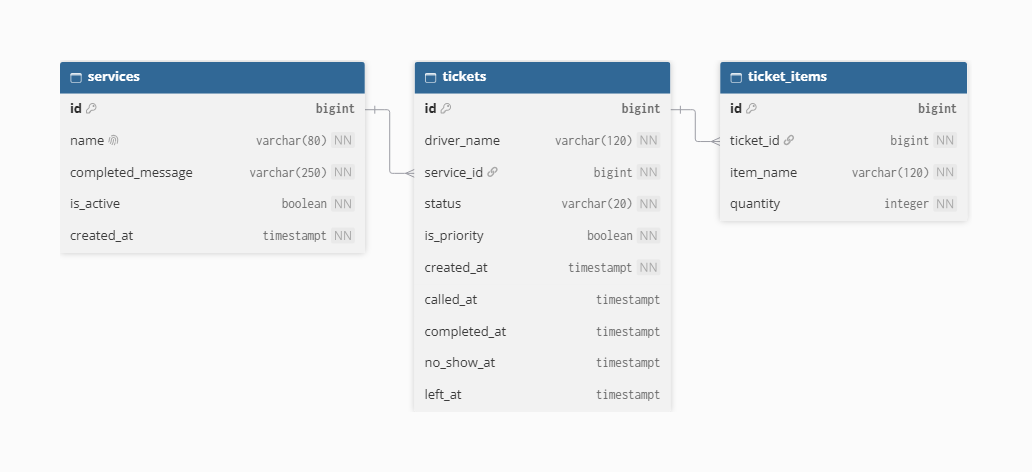
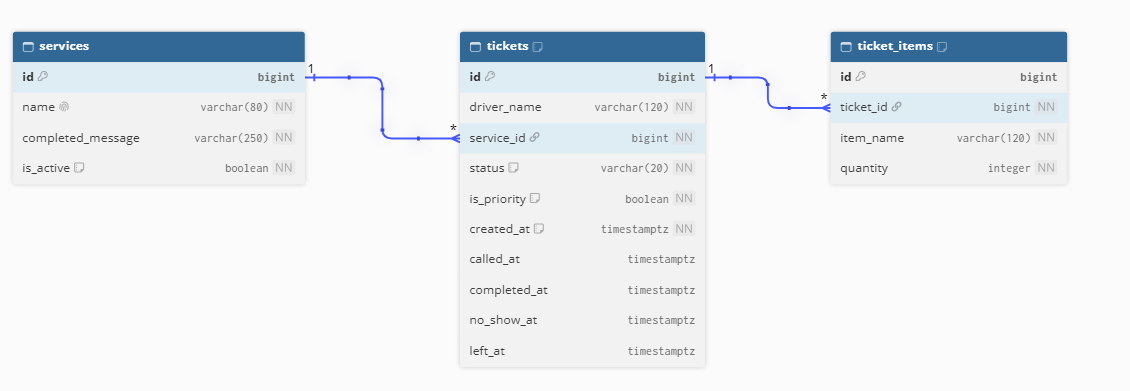
Self-review of schema

diff --git a/docs/week4/schema.md b/docs/week4/schema.md
@@ -4,21 +4,21 @@ This is the proposed schema for WarehouseQ's warehouse receiving workflow. It mo
 
 ## Find the nouns in the requirements
 
-Each requirement marked **Stores data? = Yes** in [the requirements list](../requirements.md) is included below. The queue and the number of people ahead are derived from tickets; they are not stored as separate records or columns.
+Each requirement marked **Stores data? = Yes** in [the requirements list](../requirements.md) is included below. The queue and the number of people ahead are derived from tickets, they are not stored as separate records or columns.
 
 | Req ID | Requirement | Nouns | Table or column? |
 | --- | --- | --- | --- |
-| REQ-C01 | A driver can join the To Check or To Ship queue by entering their name and the items and quantities for the request. | **driver**, **queue**, **service**, **name**, **items**, **quantities**, **request** | **driver** name → `tickets.driver_name`; **queue** → computed from `tickets`; **service** → `services`, referenced by `tickets.service_id`; **request** → `tickets`; **items** → `ticket_items.item_name`; **quantities** → `ticket_items.quantity` |
-| REQ-C02 | A driver can view their ticket number, selected service, current status, and how many people are ahead in that service. | **ticket number**, **service**, **status**, **people ahead** | **ticket number** → `tickets.id`; **service** → `tickets.service_id` and `services.name`; **status** → `tickets.status`; **people ahead** → computed from earlier waiting tickets for the same service |
-| REQ-C03 | A driver can tell when staff have called their ticket by seeing its status change to Processing on the ticket page. | **driver**, **staff**, **ticket**, **status** | **ticket** → `tickets`; **status** → `tickets.status` and `tickets.called_at`; **driver** and **staff** are actors, not persisted account records in this app |
-| REQ-S01 | A warehouse staff member can view waiting tickets in ticket-number order on the staff dashboard. | **staff member**, **tickets**, **ticket-number order** | **tickets** → `tickets`; **ticket-number order** → generated `tickets.id`; **staff member** is an actor, not a stored user |
-| REQ-S02 | A warehouse staff member can identify whether each ticket is for To Check or To Ship from its service label. | **staff member**, **ticket**, **service**, **service label** | **ticket** → `tickets`; **service** and **service label** → `services`, referenced by `tickets.service_id` |
-| REQ-S03 | A warehouse staff member can call the next waiting ticket and update its status to Completed or No-Show from the dashboard. | **staff member**, **ticket**, **status**, **call**, **service** | **ticket** and **status** → `tickets`; **call**, completion, and no-show times → `tickets.called_at`, `tickets.completed_at`, `tickets.no_show_at`; **service** → `tickets.service_id`; **staff member** is an actor, not a stored user |
-| REQ-S04 | WarehouseQ can save services, tickets, item names, quantities, and statuses so the queue is still available after the server restarts. | **services**, **tickets**, **item names**, **quantities**, **statuses**, **queue** | **services** → `services`; **tickets** and **statuses** → `tickets`; **item names** and **quantities** → `ticket_items`; **queue** → computed from stored tickets |
-| REQ-C04 | A driver can review the item names and quantities on their ticket after joining the queue. | **driver**, **item names**, **quantities**, **ticket** | **ticket** → `tickets`; **item names** and **quantities** → `ticket_items`; **driver** is an actor identified on that ticket by `tickets.driver_name` |
-| REQ-C05 | A driver can mark a request as time-sensitive so staff can identify it on the dashboard and prioritize it within its service. | **driver**, **request**, **priority**, **staff**, **service** | **request** → `tickets`; **priority** → `tickets.is_priority`; **service** → `tickets.service_id`; **driver** and **staff** are actors |
-| REQ-S05 | A warehouse staff member can add a service, rename it, or switch it off so drivers cannot select it for new tickets. | **staff member**, **service**, **name**, **active state**, **drivers** | **service**, **name**, and **active state** → `services.id`, `services.name`, and `services.is_active`; **staff member** and **drivers** are actors |
-| REQ-S06 | A warehouse staff member can see the number of No-Show tickets for each service on a selected day. | **staff member**, **No-Show tickets**, **service**, **day**, **number** | **tickets** → `tickets`; **service** → `tickets.service_id`; **day** → `tickets.no_show_at` (`timestampt`); **number** → computed count, not stored; **staff member** is an actor |
+| REQ-C01 | A driver can join the To Check or To Ship queue by entering their name and the items and quantities for the request. | **driver**, **queue**, **service**, **name**, **items**, **quantities**, **request** | **driver** name → `tickets.driver_name`<br> **queue** → computed from `tickets`<br> **service** → `services`, referenced by `tickets.service_id`<br> **request** → `tickets`<br> **items** → `ticket_items.item_name`<br> **quantities** → `ticket_items.quantity` |
+| REQ-C02 | A driver can view their ticket number, selected service, current status, and how many people are ahead in that service. | **ticket number**, **service**, **status**, **people ahead** | **ticket number** → `tickets.id`<br> **service** → `tickets.service_id` and `services.name`<br> **status** → `tickets.status`<br> **people ahead** → computed from earlier waiting tickets for the same service |
+| REQ-C03 | A driver can tell when staff have called their ticket by seeing its status change to Processing on the ticket page. | **driver**, **staff**, **ticket**, **status** | **ticket** → `tickets`<br> **status** → `tickets.status` and `tickets.called_at`<br> **driver** and **staff** are actors, not persisted account records in this app |
+| REQ-S01 | A warehouse staff member can view waiting tickets in ticket-number order on the staff dashboard. | **staff member**, **tickets**, **ticket-number order** | **tickets** → `tickets`<br> **ticket-number order** → generated `tickets.id`<br> **staff member** is an actor, not a stored user |
+| REQ-S02 | A warehouse staff member can identify whether each ticket is for To Check or To Ship from its service label. | **staff member**, **ticket**, **service**, **service label** | **ticket** → `tickets`<br> **service** and **service label** → `services`, referenced by `tickets.service_id` |
+| REQ-S03 | A warehouse staff member can call the next waiting ticket and update its status to Completed or No-Show from the dashboard. | **staff member**, **ticket**, **status**, **call**, **service** | **ticket** and **status** → `tickets`<br> **call**, completion, and no-show times → `tickets.called_at`, `tickets.completed_at`, `tickets.no_show_at`<br> **service** → `tickets.service_id`<br> **staff member** is an actor, not a stored user |
+| REQ-S04 | WarehouseQ can save services, tickets, item names, quantities, and statuses so the queue is still available after the server restarts. | **services**, **tickets**, **item names**, **quantities**, **statuses**, **queue** | **services** → `services`<br> **tickets** and **statuses** → `tickets`<br> **item names** and **quantities** → `ticket_items`<br> **queue** → computed from stored tickets |
+| REQ-C04 | A driver can review the item names and quantities on their ticket after joining the queue. | **driver**, **item names**, **quantities**, **ticket** | **ticket** → `tickets`<br> **item names** and **quantities** → `ticket_items`<br> **driver** is an actor identified on that ticket by `tickets.driver_name` |
+| REQ-C05 | A driver can mark a request as time-sensitive so staff can identify it on the dashboard and prioritize it within its service. | **driver**, **request**, **priority**, **staff**, **service** | **request** → `tickets`<br> **priority** → `tickets.is_priority`<br> **service** → `tickets.service_id`<br> **driver** and **staff** are actors |
+| REQ-S05 | A warehouse staff member can add a service, rename it, or switch it off so drivers cannot select it for new tickets. | **staff member**, **service**, **name**, **active state**, **drivers** | **service**, **name**, and **active state** → `services.id`, `services.name`, and `services.is_active`<br> **staff member** and **drivers** are actors |
+| REQ-S06 | A warehouse staff member can see the number of No-Show tickets for each service on a selected day. | **staff member**, **No-Show tickets**, **service**, **day**, **number** | **tickets** → `tickets`<br> **service** → `tickets.service_id`<br> **day** → `tickets.no_show_at` (`timestamptz`)<br> **number** → computed count, not stored<br> **staff member** is an actor |
 
 ## Tables and columns
 
@@ -26,47 +26,68 @@ Three related tables are needed. A ticket is one warehouse request, and each ite
 
 | Table | Columns |
 | --- | --- |
-| `services` | `id`, `name`, `completed_message`, `is_active`, `created_at` |
+| `services` | `id`, `name`, `completed_message`, `is_active` |
 | `tickets` | `id`, `driver_name`, `service_id`, `status`, `is_priority`, `created_at`, `called_at`, `completed_at`, `no_show_at`, `left_at` |
 | `ticket_items` | `id`, `ticket_id`, `item_name`, `quantity` |
 
-The driver's name is stored on the ticket because it is the name supplied for that request; WarehouseQ does not currently have driver accounts or email addresses. Service details are kept separately so a service can be renamed or disabled without copying its name to every ticket. Ticket item names and quantities are kept in `ticket_items`, one row per item line.
+The driver's name is stored on the ticket because it is the name supplied for that request, WarehouseQ does not currently have driver accounts or email addresses. Service details are kept separately so a service can be renamed or disabled without copying its name to every ticket. Ticket item names and quantities are kept in `ticket_items`, one row per item line.
 
 The ticket status uses `Waiting`, `Processing`, `Completed`, `No-Show`, or `Left`. `Left` distinguishes a driver who leaves the queue from a driver who fails to appear, allowing no-show reports to count only actual no-shows. `is_priority` supports the future priority feature. `is_active` supports disabling a service while retaining it for historical tickets.
 
-Queue position and counts are computed, not stored. The position is the count of earlier `Waiting` tickets for the same service, ordered by `created_at` and then `id` to break ties. The no-show count is computed from `tickets.no_show_at` for the selected service and day.
+Queue position and counts are computed, not stored. To match REQ-S01 and the current app, waiting tickets are ordered by ticket number (`tickets.id`), a driver's position is the count of earlier `Waiting` tickets for the same service with a lower ticket number. `created_at` records when the ticket joined and supports date-based reporting, but does not determine ticket order. The no-show count is computed from `tickets.no_show_at` for the selected service and day.
 
 ## PostgreSQL types and constraints
 
-`GENERATED ALWAYS AS IDENTITY` columns are generated by PostgreSQL. All timestamp columns use `timestampt`; nullable transition times are filled when that transition occurs.
+`GENERATED ALWAYS AS IDENTITY` columns are generated by PostgreSQL. All timestamp columns use `timestamptz`, nullable transition times are filled when that transition occurs. `services.created_at` was omitted because no current or planned requirement needs the service creation time.
 
 | Table | Column | PostgreSQL type | Constraint | Why |
 | --- | --- | --- | --- | --- |
 | `services` | `id` | `bigint GENERATED ALWAYS AS IDENTITY` | PRIMARY KEY | Stable generated identifier for each service. |
-| `services` | `name` | `varchar(80)` | NOT NULL, UNIQUE | Required service label; prevents duplicate labels such as two `To Check` services. |
+| `services` | `name` | `varchar(80)` | NOT NULL, UNIQUE | Required service label, prevents duplicate labels such as two `To Check` services. |
 | `services` | `completed_message` | `varchar(250)` | NOT NULL | Stores the service-specific completion message shown to the driver. |
 | `services` | `is_active` | `boolean` | NOT NULL DEFAULT `true` | Inactive services stay available for old tickets but cannot be chosen for new ones. |
-| `services` | `created_at` | `timestampt` | NOT NULL DEFAULT `now()` | Records when the service was created, using a time-zone-aware timestamp. |
 | `tickets` | `id` | `bigint GENERATED ALWAYS AS IDENTITY` | PRIMARY KEY | Unique ticket number generated by the database. |
 | `tickets` | `driver_name` | `varchar(120)` | NOT NULL | Stores the name entered for this warehouse request. |
-| `tickets` | `service_id` | `bigint` | NOT NULL, FOREIGN KEY REFERENCES `services(id)` ON DELETE RESTRICT | Every ticket must belong to an existing service; deleting a service cannot erase ticket history. |
-| `tickets` | `status` | `varchar(20)` | NOT NULL DEFAULT `'Waiting'`, CHECK (`status` IN (`'Waiting'`, `'Processing'`, `'Completed'`, `'No-Show'`, `'Left'`)) | Restricts ticket state to the states used by the queue workflow. |
-| `tickets` | `is_priority` | `boolean` | NOT NULL DEFAULT `false` | Stores whether this individual request has priority; it can vary per ticket. |
-| `tickets` | `created_at` | `timestampt` | NOT NULL DEFAULT `now()` | Records when the ticket joined; used to order the queue and compute position. |
-| `tickets` | `called_at` | `timestampt` | NULL allowed | Records when the ticket was called; NULL until called. |
-| `tickets` | `completed_at` | `timestampt` | NULL allowed | Records when staff completed the work; NULL unless completed. |
-| `tickets` | `no_show_at` | `timestampt` | NULL allowed | Records when staff marked a no-show; supports per-service, per-day reports. |
-| `tickets` | `left_at` | `timestampt` | NULL allowed | Records when a driver left before being called, separately from a no-show. |
+| `tickets` | `service_id` | `bigint` | NOT NULL, FOREIGN KEY REFERENCES `services(id)` ON DELETE RESTRICT | Every ticket must belong to an existing service, deleting a service cannot erase ticket history. |
+| `tickets` | `status` | `varchar(20)` | NOT NULL DEFAULT `'Waiting'`, CHECK (`status` IN (`'Waiting'`, `'Processing'`, `'Completed'`, `'No-Show'`, `'Left'`)), plus the table-level status/timestamp CHECK below | Restricts ticket state to valid queue states and requires transition timestamps to agree with the state. |
+| `tickets` | `is_priority` | `boolean` | NOT NULL DEFAULT `false` | Stores whether this individual request has priority, it can vary per ticket. |
+| `tickets` | `created_at` | `timestamptz` | NOT NULL DEFAULT `now()` | Records when the ticket joined and supports date-based reporting. |
+| `tickets` | `called_at` | `timestamptz` | NULL allowed | Records when the ticket was called, NULL until called. |
+| `tickets` | `completed_at` | `timestamptz` | NULL allowed | Records when staff completed the work, NULL unless completed. |
+| `tickets` | `no_show_at` | `timestamptz` | NULL allowed | Records when staff marked a no-show, supports per-service, per-day reports. |
+| `tickets` | `left_at` | `timestamptz` | NULL allowed | Records when a driver left before being called, separately from a no-show. |
 | `ticket_items` | `id` | `bigint GENERATED ALWAYS AS IDENTITY` | PRIMARY KEY | Gives each item line its own stable identifier. |
 | `ticket_items` | `ticket_id` | `bigint` | NOT NULL, FOREIGN KEY REFERENCES `tickets(id)` ON DELETE CASCADE | Associates the item line with its ticket; ticket items have no meaning without their ticket. |
 | `ticket_items` | `item_name` | `varchar(120)` | NOT NULL | Stores one item description per row. |
 | `ticket_items` | `quantity` | `integer` | NOT NULL, CHECK (`quantity` > 0) | Stores a numeric, positive item quantity. |
 
-This schema uses PRIMARY KEY, FOREIGN KEY, NOT NULL, UNIQUE, CHECK, and `timestampt`. Ticket positions, counts, and service queues are query results rather than stored values.
+This schema uses PRIMARY KEY, FOREIGN KEY, NOT NULL, UNIQUE, CHECK, and `timestamptz`. Ticket positions, counts, and service queues are query results rather than stored values.
 
-## 2d. Entity relationship diagram
+The `tickets` table has a second CHECK constraint to prevent status and transition timestamps from contradicting each other:
 
-![WarehouseQ entity relationship diagram](erd.png)
+```sql
+CONSTRAINT tickets_status_timestamps_check CHECK (
+    (status = 'Waiting'
+        AND called_at IS NULL AND completed_at IS NULL
+        AND no_show_at IS NULL AND left_at IS NULL)
+ OR (status = 'Processing'
+        AND called_at IS NOT NULL AND completed_at IS NULL
+        AND no_show_at IS NULL AND left_at IS NULL)
+ OR (status = 'Completed'
+        AND called_at IS NOT NULL AND completed_at IS NOT NULL
+        AND no_show_at IS NULL AND left_at IS NULL)
+ OR (status = 'No-Show'
+        AND called_at IS NULL AND completed_at IS NULL
+        AND no_show_at IS NOT NULL AND left_at IS NULL)
+ OR (status = 'Left'
+        AND called_at IS NULL AND completed_at IS NULL
+        AND no_show_at IS NULL AND left_at IS NOT NULL)
+)
+```
+
+## Entity relationship diagram
+
+![](erd.png)
 
 **Relationships:** One service has many tickets. Each ticket belongs to exactly one service. One ticket has many item lines. Each item line belongs to exactly one ticket.
 
@@ -77,8 +98,8 @@ This schema uses PRIMARY KEY, FOREIGN KEY, NOT NULL, UNIQUE, CHECK, and `timesta
 
 There are no many-to-many relationships in this version of WarehouseQ.
 
-## 2e. Normalization check
+## Normalization check
 
 1. **One value per cell (1NF):** Yes. Each ticket item and quantity is one `ticket_items` row. A ticket does not contain a comma-separated list of item names or quantities.
-2. **Depends on the whole key (2NF):** There is no join table with a composite key. Every non-key column in each table describes its row's primary key; the fields in `ticket_items` describe that item line.
-3. **No hidden copies (3NF):** Service name and completion message are stored once in `services`, rather than repeated on every ticket. Each item line belongs to one ticket. A driver's name is recorded on each ticket as the name provided for that request; there is no separate driver account or profile fact duplicated across records.
+2. **Depends on the whole key (2NF):** There is no join table with a composite key. Every non-key column in each table describes its row's primary key, the fields in `ticket_items` describe that item line.
+3. **No hidden copies (3NF):** Service name and completion message are stored once in `services`, rather than repeated on every ticket. Each item line belongs to one ticket. A driver's name is recorded on each ticket as the name provided for that request, there is no separate driver account or profile fact duplicated across records.

diff --git a/docs/week4/schema-review.md b/docs/week4/schema-review.md
@@ -1,0 +1,35 @@
+# WarehouseQ schema self-review
+
+The schema was set aside for at least an hour before this review. I checked it against the requirements and Week 3 persona tasks, then updated the schema and ERD to address the issues below.
+
+## Review findings
+
+### Queue order and requirement coverage
+
+**Works well:** `tickets` records the service and status needed to build each service's queue, and the number of people ahead is computed rather than stored.
+<br>**Problem:** The schema described queue order by `created_at`, while REQ-S01 and the staff dashboard specify ticket-number order. This mismatch was found by question 1 (coverage).
+<br>**Change:** Queue order and position are now defined by `tickets.id` (the ticket number). `created_at` remains for recording join time and date-based reporting.
+
+### Status and transition timestamps
+
+**Works well:** Separate transition timestamps preserve when a ticket was called, completed, marked No-Show, or left the queue, supporting status display and no-show reporting.
+<br>**Problem:** Storing both `status` and transition timestamps without a consistency rule could allow contradictory data, such as a `Waiting` ticket with a completion time. This was found by question 2 (one fact in one place) and question 4 (bad data).
+<br>**Change:** Added a table-level `CHECK` constraint in `schema.md` requiring transition timestamps to agree with the ticket status. Status and timestamp must be updated together.
+
+### Column and type review
+
+**Works well:** Service names and completion messages are stored once in `services`, while each ticket item is stored as its own row. This avoids repeated service facts and list-valued item columns.
+<br>**Problem:** `services.created_at` was not needed by any current or planned requirement, and the timestamp type had been misspelled as `timestampt` in the schema since `timestamptz` includes the time and timezone. These were found by questions 1 (coverage) and 6 (types).
+<br>**Change:** Removed `services.created_at` and corrected all timestamp columns and references to PostgreSQL's `timestamptz`.
+
+### Foreign-key deletion behavior
+
+**Works well:** Deleting a service with ticket history is restricted, and deleting a ticket cascades only to its dependent item lines. This preserves service and ticket history while preventing orphan item rows.
+<br>**Problem:** No additional delete issue was found in the current three-table design.
+<br>**Change:** Kept `ON DELETE RESTRICT` for `tickets.service_id` and `ON DELETE CASCADE` for `ticket_items.ticket_id`, with the reasons documented in `schema.md`.
+
+## Other checks
+
+- Queue position and no-show totals are computed instead of being stored.
+- Primary keys prevent duplicate IDs, foreign keys reject missing services or tickets, status and quantity checks reject invalid values. The app must still validate that a selected service is active and is the service the driver intended.
+- Names for services are stored once, ticket item rows contain one item and quantity, and there is no composite-key join table in this design.

diff --git a/docs/week4/hw4_queue_app_db.md b/docs/week4/hw4_queue_app_db.md
@@ -350,9 +350,9 @@ Update your ERD and `schema.md` with the changes before you start Part 4.
 
 **Checkpoint 3**
 
-- [ ] `docs/week4/schema-review.md` has at least three *Works well / Problem / Change* entries.
-- [ ] Your ERD and `schema.md` are updated, or the review explains why you kept them.
-- [ ] Committed.
+- [X] `docs/week4/schema-review.md` has at least three *Works well / Problem / Change* entries.
+- [X] Your ERD and `schema.md` are updated, or the review explains why you kept them.
+- [X] Committed.
 
 ---
 
